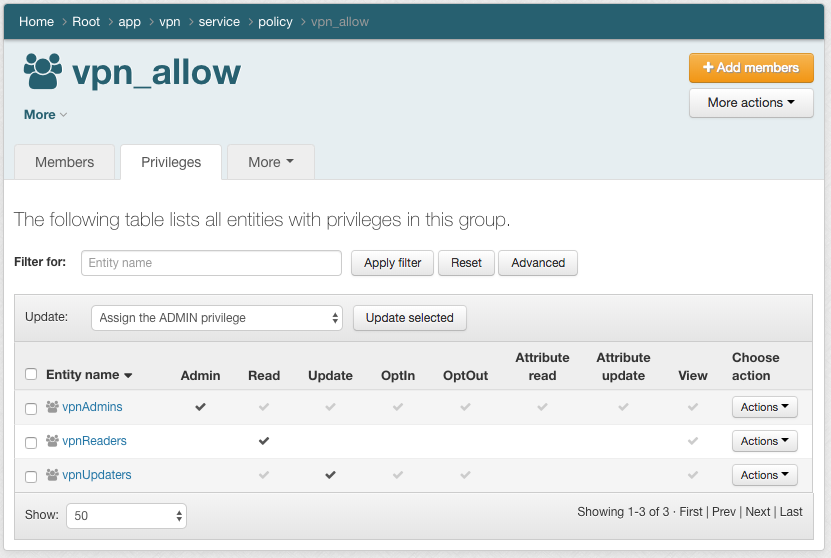
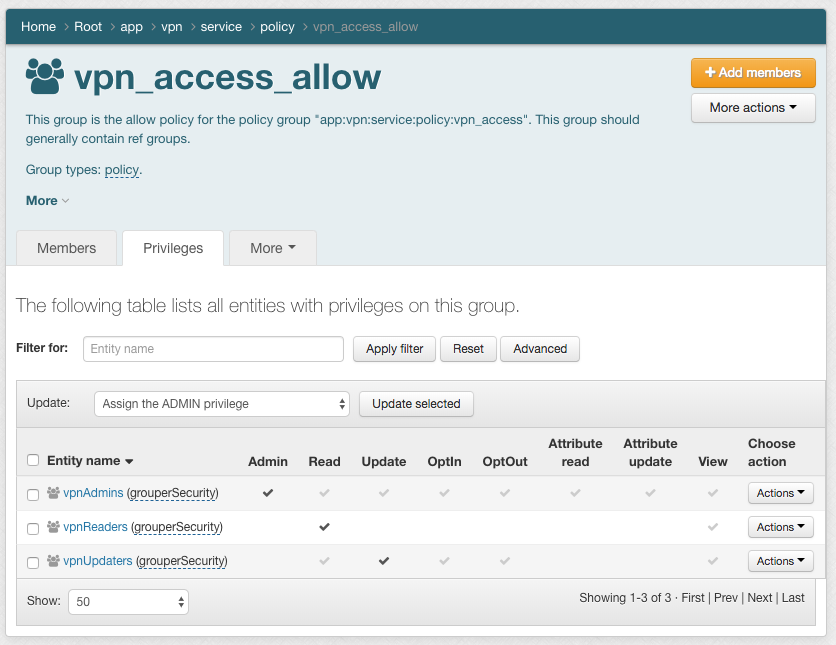
grouper 2.4a64 101/201 updates

diff --git a/docs/201/201.3.rst b/docs/201/201.3.rst
@@ -73,7 +73,7 @@ Exercise 201.3.1 Create app folder for eduPersonAffiliation values
 
 .. figure:: ../figures/201-eduPersonAffiliation-app-template.png
 
-#. Create the following policy groups in
+#. Create the following groups in
    `app:eduPersonAffiliation:service:policy:`
 
 * `ePA_student`
@@ -118,7 +118,8 @@ Exercise 201.3.4 Configure PSPNG to reflect ePA values to LDAP
 --------------------------------------------------------------
 
 #. Configure PSPNG to sync group membership to LDAP values for
-   **eduPersonAffiliation**.
+   **eduPersonAffiliation**. The following is already configured for you in
+   grouper-loader.properties.
 
    .. literalinclude:: examples/201-3-4.pspng-epa.grouper-loader.properties
         :language: properties
@@ -126,11 +127,13 @@ Exercise 201.3.4 Configure PSPNG to reflect ePA values to LDAP
         :linenos:
 
 #. Assign PSPNG *provision_to* attribute to `ePA_member` with a value of
-   **pspng_affiliations**.
+   **pspng_affiliations**. (ePA_member -> More actions -> Attribute assigments
+   -> + Assign attribute -> `etc:pspng:provision_to` -> Save) (provision_to ->
+   Actions -> Add value -> `pspng_affiliations` -> Submit)
 
 .. figure:: ../figures/201-ePA-pspng.png
 
-3. Review and "Run job now" the PSPNG affiliations change log consumer daemon
+3. Review and execute "Run job now" for the PSPNG affiliations change log consumer daemon
    job (Miscellaneous -> All daemon jobs)
 
 .. figure:: ../figures/201-ePA-pspng-run.png
@@ -149,7 +152,8 @@ the demo SP. The relevant configuration is below:
     :emphasize-lines: 9
     :linenos:
 
-1. Log in to https://localhost:8443/app with username `aclark706` and password `password`.
+1. Open a private browser, and log in to https://localhost:8443/app with
+   username `aclark706` and password `password`.
 
 .. figure:: ../figures/201-ePA-attribute-release.png
 

diff --git a/docs/201/201.2.rst b/docs/201/201.2.rst
@@ -68,13 +68,6 @@ create a new structure for our VPN service policy.
 
 .. figure:: ../figures/201-new-vpn-policy.png
 
-TODO: Steps 5 through 8 should be replaced with policy template when ready
-
-5. Create `app:vpn:vpn_access`.
-6. Create `app:vpn:vpn_allow`.
-7. Create `app:vpn:vpn_deny`.
-8. Make `vpn_access` a composite of `vpn_allow` minus `vpn_deny`.
-
 -------------------------------------------------------------------
 Exercise 201.2.2 Create digital policy from natural language policy
 -------------------------------------------------------------------
@@ -83,8 +76,8 @@ The natural language policy is "all faculty and staff have access to vpn,
 unless denied by CISO or the account is in a closure state".  Reference groups
 are already available.
 
-#. Add `ref:employee:fac_staff` to `vpn_allow`.
-#. Add `ref:security:locked_by_ciso` to `vpn_deny`.
+#. Add `ref:employee:fac_staff` to `vpn_access_allow`.
+#. Add `ref:security:locked_by_ciso` to `vpn_access_deny`.
 #. Add `ref:iam:closure` to `vpn_deny`.
 #. Review the `vpn_access` policy definition
    (vpn_access -> More actions -> Visualization)
@@ -106,7 +99,7 @@ account is in a closure state".
 
 .. figure:: ../figures/201-jsmith-trace.png
 
-4. View the audit log on `vpn_allow`. (vpn_allow -> More actions -> View audit
+4. View the audit log on `vpn_access_allow`. (vpn_access_allow -> More actions -> View audit
    log)
 
 .. figure:: ../figures/201-vpn-allow-audit.png
@@ -125,7 +118,7 @@ controlled by security groups in `app:vpn:security`. Security groups are
 essentially policy groups for Grouper access. Review the default privileges on
 `vpn_allow`.
 
-#. Naviage to `ref:app:vpn:service:policy:vpn_allow`.
+#. Naviage to `ref:app:vpn:service:policy:vpn_access_allow`.
 #. Click on the Privileges tab.
 
 .. figure:: ../figures/201-vpn-allow-privileges.png

diff --git a/docs/201/201.4.rst b/docs/201/201.4.rst
@@ -60,8 +60,8 @@ Exercise 201.4.2 Add reference groups to policy
 access to the wiki. The natural language policy is, "All students have access
 to the student wiki, unless they are in the global deny group".
 
-#. Add `ref:student:students` to `app:wiki:service:policy:wiki_allow`.
-#. Add `ref:iam:global_deny` to `app:wiki:service:policy:wiki_deny`.
+#. Add `ref:student:students` to `app:wiki:service:policy:wiki_user_allow`.
+#. `ref:iam:global_deny` was added to `wiki_user_deny` automatically by the template.
 #. Review policy defintion (wiki_user -> More -> Visualization)
 
 .. figure:: ../figures/201-wiki-policy.png
@@ -76,7 +76,7 @@ Exercise 201.4.3 Configure PSPNG to provision wiki_user to eduPersonEntitlement
 .. figure:: ../figures/201-wiki-user-pspng.png
 
 2. Configure PSPNG to convert membership to ePE value of http://sp.example.org/wiki
-   and review in LDAP.  The relevent configuration is below:
+   and review in LDAP.  The following has already been configured in grouper-loader.properties:
 
    .. literalinclude:: examples/201-4-4.pspng-epe.grouper-loader.properties
         :language: properties
@@ -103,7 +103,7 @@ is below:
     :emphasize-lines: 17
     :linenos:
 
-1. Open a new browser to https://localhost:8443/app
+1. Open a new private browser to https://localhost:8443/app
 2. Log in with username `aclark706` and password `password`
 3. Check eduPersonEntitlement value
 

diff --git a/docs/201/201.5.rst b/docs/201/201.5.rst
@@ -30,7 +30,7 @@ defined at the target service. The policy indicating which subjects are mapped
 to application roles (permissions sets) can be attribute based, a simple access
 control list, or some combination of both.
 
-In AC3, the policy adminstration point is split between Grouper and the target
+In ACM3, the policy adminstration point is split between Grouper and the target
 service. Policy decision point and policy enforcement point are with the target
 service.
 
